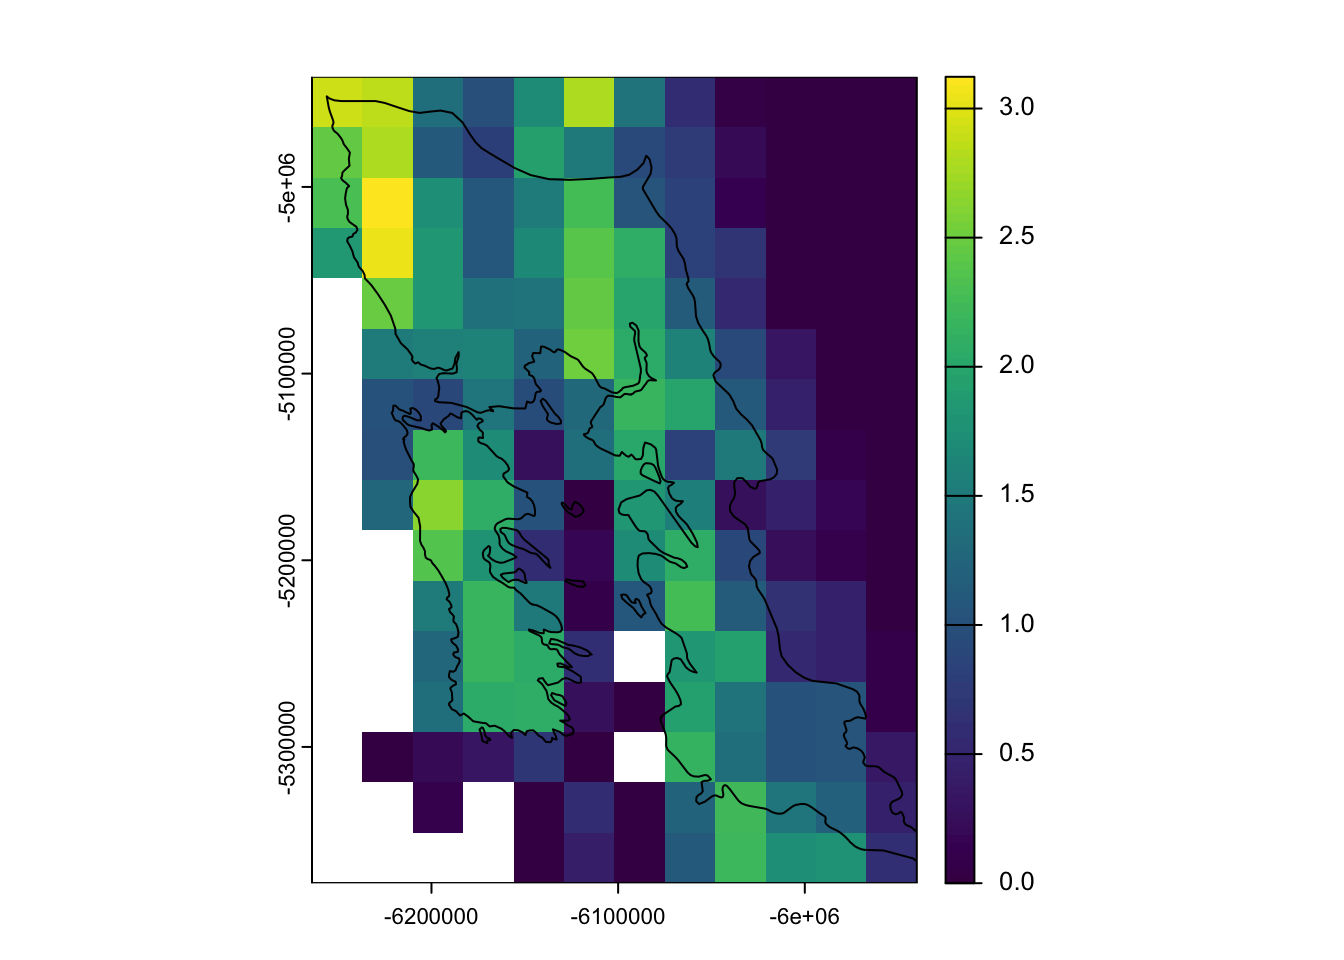
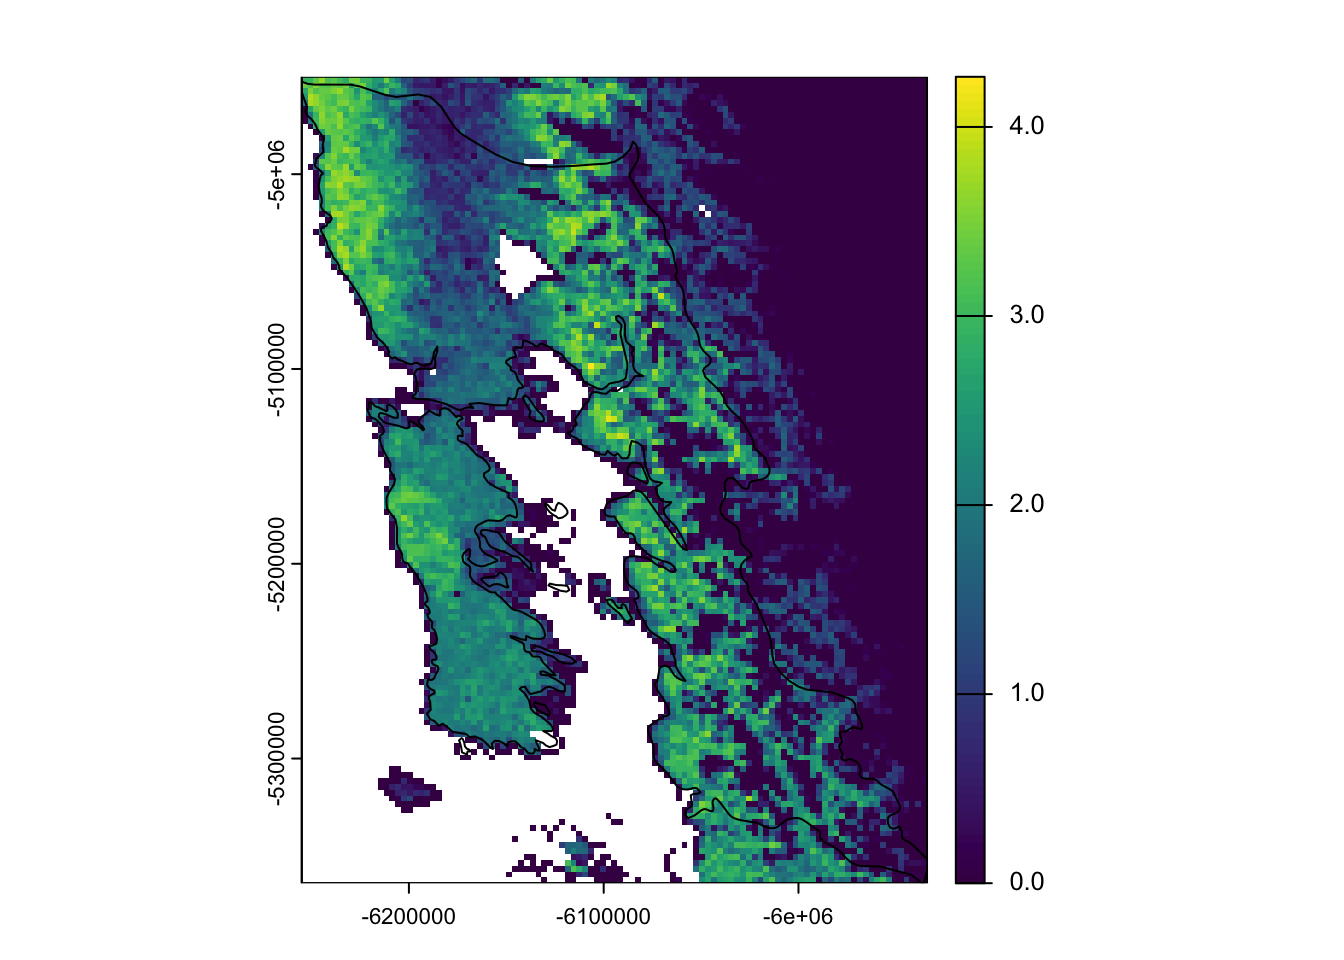
Clase 4

Changed region(s): [[0.1875, 0.0625, 0.7812, 0.9688], [0.2812, 0.9375, 0.375, 0.9688]]

diff --git a/docs/ebirdst.html b/docs/ebirdst.html
@@ -215,10 +215,8 @@ pre > code.sourceCode > span > a:first-child::before { text-decoration: underlin
   </ul></li>
   <li><a href="#incertidumbre" id="toc-incertidumbre" class="nav-link" data-scroll-target="#incertidumbre"><span class="header-section-number">6</span> Incertidumbre</a></li>
   <li><a href="#tendencias-regionales" id="toc-tendencias-regionales" class="nav-link" data-scroll-target="#tendencias-regionales"><span class="header-section-number">7</span> Tendencias regionales</a></li>
-  <li><a href="#tendencias-multi-especie" id="toc-tendencias-multi-especie" class="nav-link" data-scroll-target="#tendencias-multi-especie"><span class="header-section-number">8</span> Tendencias multi-especie</a>
-  <ul class="collapse">
-  <li><a href="#recursos-adicionales" id="toc-recursos-adicionales" class="nav-link" data-scroll-target="#recursos-adicionales"><span class="header-section-number">8.1</span> Recursos adicionales</a></li>
-  </ul></li>
+  <li><a href="#tendencias-multi-especie" id="toc-tendencias-multi-especie" class="nav-link" data-scroll-target="#tendencias-multi-especie"><span class="header-section-number">8</span> Tendencias multi-especie</a></li>
+  <li><a href="#recursos-adicionales" id="toc-recursos-adicionales" class="nav-link" data-scroll-target="#recursos-adicionales"><span class="header-section-number">9</span> Recursos adicionales</a></li>
   </ul>
 <div class="toc-actions"><ul><li><a href="https://github.com/ROC-Chile/r-para-ebird/edit/main/ebirdst.qmd" class="toc-action"><i class="bi bi-github"></i>Edit this page</a></li><li><a href="https://github.com/ROC-Chile/r-para-ebird/issues/new" class="toc-action"><i class="bi empty"></i>Report an issue</a></li></ul></div></nav>
     </div>
@@ -475,9 +473,9 @@ Solución
 </section>
 <section id="sec-ebirdst-download" class="level2" data-number="4.3">
 <h2 data-number="4.3" class="anchored" data-anchor-id="sec-ebirdst-download"><span class="header-section-number">4.3</span> Descarga de datos</h2>
-<p>La función <code>ebirdst_download_status()</code> descarga datos de una sola especie a partir del nombre de la especie (nombre común, nombre científico o código de especie). Por ejemplo, para descargar los datos del Picaflor chico, utilice:</p>
+<p>La función <code>ebirdst_download_status()</code> descarga datos de una sola especie a partir del nombre de la especie (nombre común en inglés, nombre científico o código de especie). Por ejemplo, para descargar los datos del Picaflor chico, utilice:</p>
 <div class="cell" data-layout-align="center">
-<div class="sourceCode cell-code" id="cb7"><pre class="sourceCode r code-with-copy"><code class="sourceCode r"><span id="cb7-1"><a href="#cb7-1" aria-hidden="true" tabindex="-1"></a>path <span class="ot">&lt;-</span> <span class="fu">ebirdst_download_status</span>(<span class="at">species =</span> <span class="st">"Sephanoides sephaniodes"</span>, <span class="at">path =</span> <span class="st">"data/ebirdst-data"</span>)</span>
+<div class="sourceCode cell-code" id="cb7"><pre class="sourceCode r code-with-copy"><code class="sourceCode r"><span id="cb7-1"><a href="#cb7-1" aria-hidden="true" tabindex="-1"></a>path <span class="ot">&lt;-</span> <span class="fu">ebirdst_download_status</span>(<span class="at">species =</span> <span class="st">"Sephanoides sephaniodes"</span>, <span class="at">path =</span> <span class="st">"data/ebirdst-data"</span>, <span class="at">force =</span> <span class="cn">TRUE</span>)</span>
 <span id="cb7-2"><a href="#cb7-2" aria-hidden="true" tabindex="-1"></a>path</span></code><button title="Copy to Clipboard" class="code-copy-button"><i class="bi"></i></button></pre></div>
 </div>
 <div class="cell" data-layout-align="center">
@@ -718,7 +716,7 @@ Solución
 <span id="cb19-7"><a href="#cb19-7" aria-hidden="true" tabindex="-1"></a>                            <span class="at">path =</span> <span class="st">"data/ebirdst-data/"</span>, </span>
 <span id="cb19-8"><a href="#cb19-8" aria-hidden="true" tabindex="-1"></a>                            <span class="at">product =</span> <span class="st">"abundance"</span>, </span>
 <span id="cb19-9"><a href="#cb19-9" aria-hidden="true" tabindex="-1"></a>                            <span class="at">period =</span> <span class="st">"seasonal"</span>, </span>
-<span id="cb19-10"><a href="#cb19-10" aria-hidden="true" tabindex="-1"></a>                            <span class="at">resolution =</span> <span class="st">"27km"</span>)</span></code><button title="Copy to Clipboard" class="code-copy-button"><i class="bi"></i></button></pre></div>
+<span id="cb19-10"><a href="#cb19-10" aria-hidden="true" tabindex="-1"></a>                            <span class="at">resolution =</span> <span class="st">"3km"</span>)</span></code><button title="Copy to Clipboard" class="code-copy-button"><i class="bi"></i></button></pre></div>
 </div>
 <p>Estos ráster se pueden dividir fácilmente en subconjuntos de una sola semana o temporada.</p>
 <div class="cell" data-layout-align="center">
@@ -737,14 +735,14 @@ Solución
 <span id="cb20-13"><a href="#cb20-13" aria-hidden="true" tabindex="-1"></a><span class="co"># breeding season</span></span>
 <span id="cb20-14"><a href="#cb20-14" aria-hidden="true" tabindex="-1"></a>abd_seasonal[[<span class="st">"breeding"</span>]]</span>
 <span id="cb20-15"><a href="#cb20-15" aria-hidden="true" tabindex="-1"></a><span class="co">#&gt; class       : SpatRaster </span></span>
-<span id="cb20-16"><a href="#cb20-16" aria-hidden="true" tabindex="-1"></a><span class="co">#&gt; dimensions  : 618, 1276, 1  (nrow, ncol, nlyr)</span></span>
-<span id="cb20-17"><a href="#cb20-17" aria-hidden="true" tabindex="-1"></a><span class="co">#&gt; resolution  : 27000, 27000  (x, y)</span></span>
+<span id="cb20-16"><a href="#cb20-16" aria-hidden="true" tabindex="-1"></a><span class="co">#&gt; dimensions  : 5562, 11484, 1  (nrow, ncol, nlyr)</span></span>
+<span id="cb20-17"><a href="#cb20-17" aria-hidden="true" tabindex="-1"></a><span class="co">#&gt; resolution  : 3000, 3000  (x, y)</span></span>
 <span id="cb20-18"><a href="#cb20-18" aria-hidden="true" tabindex="-1"></a><span class="co">#&gt; extent      : -17226000, 17226000, -8343000, 8343000  (xmin, xmax, ymin, ymax)</span></span>
 <span id="cb20-19"><a href="#cb20-19" aria-hidden="true" tabindex="-1"></a><span class="co">#&gt; coord. ref. : WGS 84 / Equal Earth Greenwich (EPSG:8857) </span></span>
-<span id="cb20-20"><a href="#cb20-20" aria-hidden="true" tabindex="-1"></a><span class="co">#&gt; source      : grbfir1_abundance_seasonal_mean_27km_2023.tif </span></span>
+<span id="cb20-20"><a href="#cb20-20" aria-hidden="true" tabindex="-1"></a><span class="co">#&gt; source      : grbfir1_abundance_seasonal_mean_3km_2023.tif </span></span>
 <span id="cb20-21"><a href="#cb20-21" aria-hidden="true" tabindex="-1"></a><span class="co">#&gt; name        : breeding </span></span>
 <span id="cb20-22"><a href="#cb20-22" aria-hidden="true" tabindex="-1"></a><span class="co">#&gt; min value   :     0.00 </span></span>
-<span id="cb20-23"><a href="#cb20-23" aria-hidden="true" tabindex="-1"></a><span class="co">#&gt; max value   :     3.28</span></span></code><button title="Copy to Clipboard" class="code-copy-button"><i class="bi"></i></button></pre></div>
+<span id="cb20-23"><a href="#cb20-23" aria-hidden="true" tabindex="-1"></a><span class="co">#&gt; max value   :     4.57</span></span></code><button title="Copy to Clipboard" class="code-copy-button"><i class="bi"></i></button></pre></div>
 </div>
 <p>También podemos dividir el ráster semanal en un rango de semanas. Por ejemplo, dividamos solo las estimaciones de las semanas de mayo y luego calculemos el promedio de todas las semanas.</p>
 <div class="cell" data-layout-align="center">
@@ -1272,7 +1270,7 @@ Tip
 <span id="cb43-2"><a href="#cb43-2" aria-hidden="true" tabindex="-1"></a>countries <span class="ot">&lt;-</span> <span class="fu">ne_countries</span>(<span class="at">returnclass =</span> <span class="st">"sf"</span>, <span class="at">continent =</span> <span class="st">"South America"</span>) <span class="sc">|&gt;</span> </span>
 <span id="cb43-3"><a href="#cb43-3" aria-hidden="true" tabindex="-1"></a>  <span class="fu">st_geometry</span>() <span class="sc">|&gt;</span> </span>
 <span id="cb43-4"><a href="#cb43-4" aria-hidden="true" tabindex="-1"></a>  <span class="fu">st_transform</span>(<span class="fu">st_crs</span>(trends_circles))</span>
-<span id="cb43-5"><a href="#cb43-5" aria-hidden="true" tabindex="-1"></a>states <span class="ot">&lt;-</span> <span class="fu">ne_states</span>(<span class="at">iso_a2 =</span> <span class="fu">c</span>(<span class="st">"CL"</span>, <span class="st">"AR"</span>, <span class="st">"UR"</span>, <span class="st">"BR"</span>, <span class="st">"PE"</span>, <span class="st">"BL"</span>)) <span class="sc">|&gt;</span> </span>
+<span id="cb43-5"><a href="#cb43-5" aria-hidden="true" tabindex="-1"></a>states <span class="ot">&lt;-</span> <span class="fu">ne_states</span>(<span class="at">iso_a2 =</span> <span class="fu">c</span>(<span class="st">"CL"</span>, <span class="st">"AR"</span>, <span class="st">"UR"</span>, <span class="st">"BR"</span>)) <span class="sc">|&gt;</span> </span>
 <span id="cb43-6"><a href="#cb43-6" aria-hidden="true" tabindex="-1"></a>  <span class="fu">st_geometry</span>() <span class="sc">|&gt;</span> </span>
 <span id="cb43-7"><a href="#cb43-7" aria-hidden="true" tabindex="-1"></a>  <span class="fu">st_transform</span>(<span class="fu">st_crs</span>(trends_circles))</span>
 <span id="cb43-8"><a href="#cb43-8" aria-hidden="true" tabindex="-1"></a></span>
@@ -1398,7 +1396,7 @@ Tip
 <span id="cb48-7"><a href="#cb48-7" aria-hidden="true" tabindex="-1"></a>                              <span class="at">coords =</span> <span class="fu">c</span>(<span class="st">"longitude"</span>, <span class="st">"latitude"</span>), </span>
 <span id="cb48-8"><a href="#cb48-8" aria-hidden="true" tabindex="-1"></a>                              <span class="at">crs =</span> <span class="dv">4326</span>)</span>
 <span id="cb48-9"><a href="#cb48-9" aria-hidden="true" tabindex="-1"></a></span>
-<span id="cb48-10"><a href="#cb48-10" aria-hidden="true" tabindex="-1"></a><span class="co"># Unir regiones a los datos de tendencias a nivel de plegado</span></span>
+<span id="cb48-10"><a href="#cb48-10" aria-hidden="true" tabindex="-1"></a><span class="co"># Unir regiones a los datos de tendencias a nivel de fold</span></span>
 <span id="cb48-11"><a href="#cb48-11" aria-hidden="true" tabindex="-1"></a>trends_golo_sf <span class="ot">&lt;-</span> <span class="fu">st_join</span>(trends_golo_sf, chile, <span class="at">left =</span> <span class="cn">FALSE</span>)</span>
 <span id="cb48-12"><a href="#cb48-12" aria-hidden="true" tabindex="-1"></a></span>
 <span id="cb48-13"><a href="#cb48-13" aria-hidden="true" tabindex="-1"></a><span class="co"># Tendencia media ponderada por abundancia por región y fold</span></span>
@@ -1526,8 +1524,10 @@ Tip
 </div>
 </div>
 </div>
-<section id="recursos-adicionales" class="level2" data-number="8.1">
-<h2 data-number="8.1" class="anchored" data-anchor-id="recursos-adicionales"><span class="header-section-number">8.1</span> Recursos adicionales</h2>
+</section>
+<section id="recursos-adicionales" class="level1" data-number="9">
+<h1 data-number="9"><span class="header-section-number">9</span> Recursos adicionales</h1>
+<p>Finalemente pueden consultar los siguientes enlaces para más información sobre el uso de datos de eBird y los paquetes asociados.</p>
 <ul>
 <li><p><a href="https://ebird.github.io/ebird-best-practices/">eBird Best Practices</a></p></li>
 <li><p><a href="https://ebird.github.io/ebirdst/">Viñetas del paquete ebirdst</a></p></li>
@@ -1535,7 +1535,6 @@ Tip
 </ul>
 
 
-</section>
 </section>
 
 </main> <!-- /main -->

diff --git a/README.md b/README.md
@@ -22,4 +22,10 @@ Conocer herramientas analíticas y buenas prácticas para la descarga, curatorí
 
 El contenido y ejercicios desarrollados en el curso los pueden encontrar en la [página web del curso](https://roc-chile.github.io/r-para-ebird/)
 
-Nos pueden contactar a eriksandvig@redobservadores.cl, mariondiaz@redobservadores.cl o vicentepantoja@redobservadores.cl
+Para cualquier pregunta o consulta sobre el contenido, resolver dudas o reportar errores, pueden enviar un correo al equipo del Programa de Monitoreo:
+
+-   mariondiaz\@redobservadores.cl
+
+-   vicentepantoja\@redobservadores.cl
+
+-   eriksandvig\@redobservadores.cl
